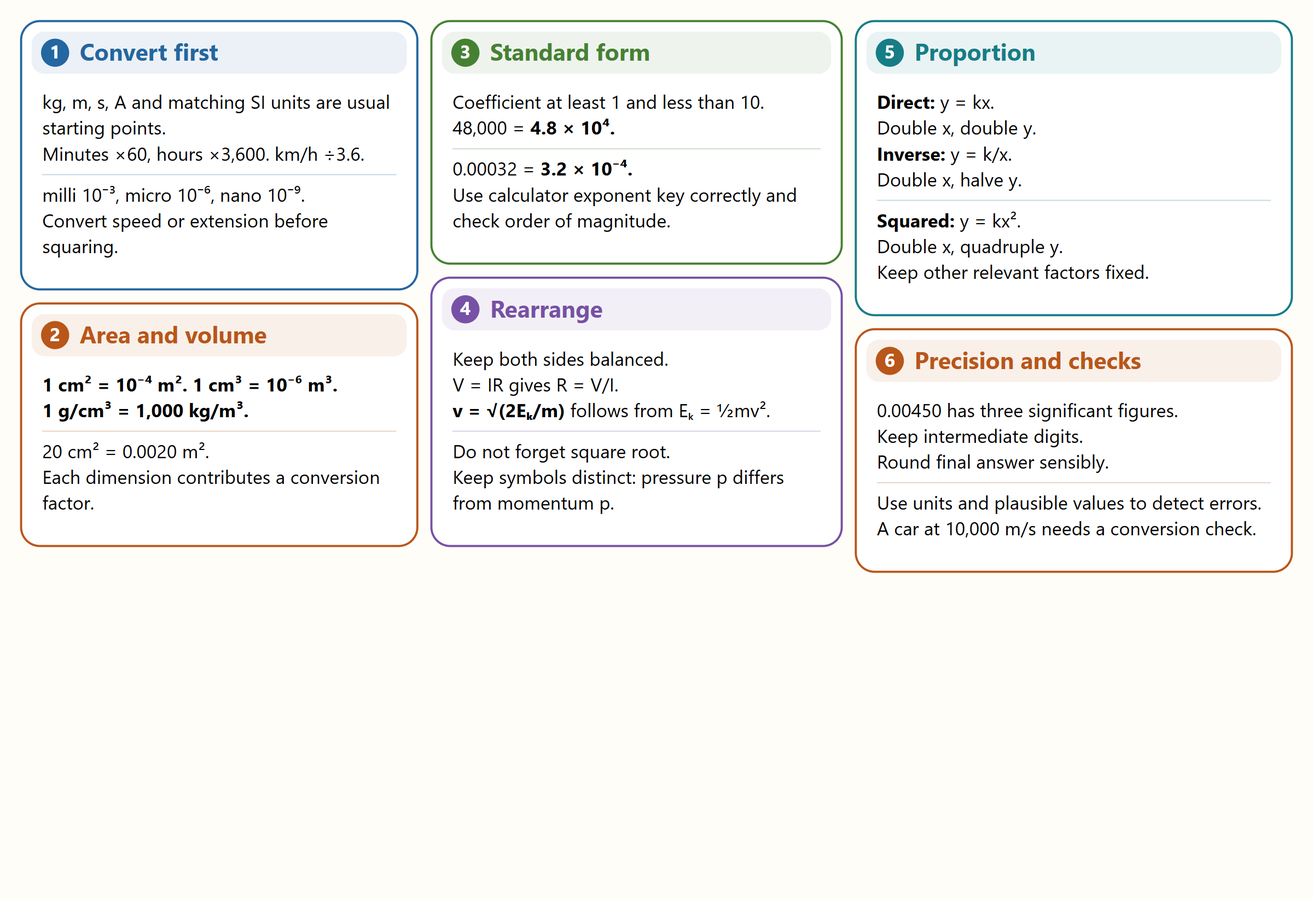
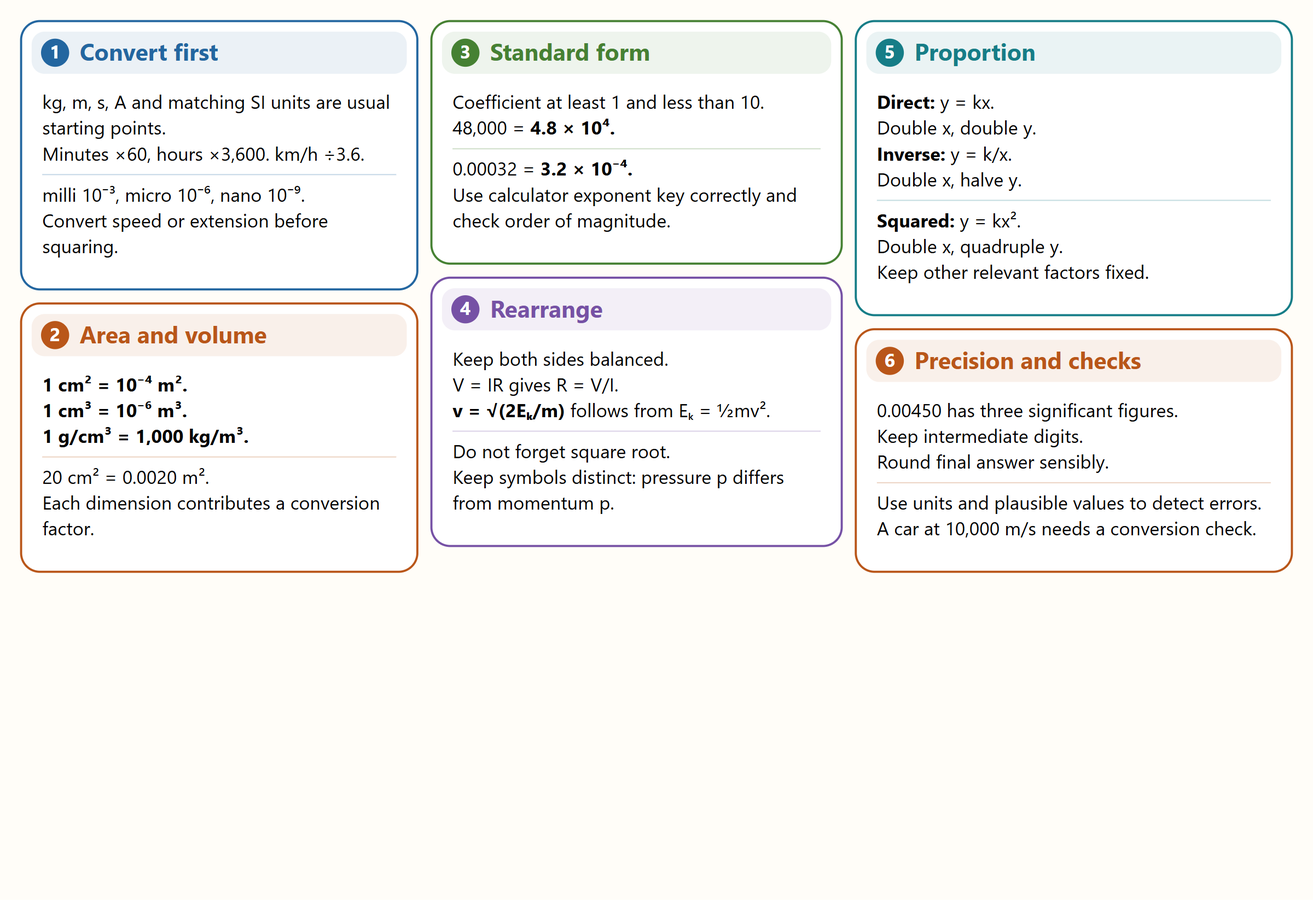
fix: review physics 10 mind-map equation layouts

Changed region(s): [[0.0, 0.4028, 0.2812, 0.6197]]

diff --git a/library/resources/physics-aqa-mathematical-requirements-and-equations-04-geometry-and-checking.html b/library/resources/physics-aqa-mathematical-requirements-and-equations-04-geometry-and-checking.html
@@ -1,6 +1,7 @@
 <!doctype html><html lang="en"><head><meta charset="utf-8"><meta name="viewport" content="width=device-width, initial-scale=1"><title>Geometry and checking mind map · Study Buddy</title><link rel="stylesheet" href="../style.css"><link rel="stylesheet" href="../mindmaps.css"><script defer src="../mindmaps.js"></script></head><body class="inner-page subject-physics"><a class="skip" href="#main">Skip to content</a><header><a class="brand" href="../../index.html"><span class="brand-mark">G</span><span class="brand-name">Study Buddy</span></a><span class="exam">Summer 2027</span></header><div class="layout"><aside><p class="eyebrow">YOUR SUBJECTS</p><nav aria-label="Subjects"><a class="" href="../../Computer%20Science%20-%20AQA/index.html">Computer Science</a><a class="" href="../../English%20Language%20-%20Eduqas/index.html">English Language</a><a class="" href="../../English%20Literature%20-%20Eduqas/index.html">English Literature</a><a class="" href="../../Maths%20-%20Edexcel/index.html">Maths</a><a class="" href="../../Geography%20-%20OCR%20A/index.html">Geography</a><a class="" href="../../French%20-%20AQA/index.html">French</a><a class="" href="../../Biology%20-%20AQA/index.html">Biology</a><a class="" href="../../Chemistry%20-%20AQA/index.html">Chemistry</a><a class="selected" href="../../Physics%20-%20AQA/index.html">Physics</a></nav><p class="side-note">Build understanding.<br>Practise precise answers.</p></aside><main id="main"><nav class="breadcrumbs" aria-label="Breadcrumb"><a href="../../index.html">Subjects</a><span aria-hidden="true"> / </span><a href="../../Physics%20-%20AQA/index.html">Physics</a><span aria-hidden="true"> / </span><a href="../../Physics%20-%20AQA/10%20-%20Mathematical%20requirements%20and%20equations/index.html">Mathematical requirements and equations</a><span aria-hidden="true"> / </span><a href="physics-aqa-mathematical-requirements-and-equations-mind-maps.html">Mind maps</a></nav><div class="reader-tools"><a href="physics-aqa-mathematical-requirements-and-equations-mind-maps.html">← Back to mind maps</a><button onclick="window.print()">Print</button></div><h1>Geometry and checking</h1><button type="button" class="mindmap-open" data-mindmap-index="4">Open full screen</button><figure class="mindmap-view"><img src="../../Physics%20-%20AQA/10%20-%20Mathematical%20requirements%20and%20equations/Mind%20Maps/04-geometry-and-checking.svg" alt="Geometry and checking revision map"></figure><details class="mindmap-text" id="text-version"><summary>Text version</summary><article class="reading"><h1>Geometry and physical checks</h1>
 <h2>Angles</h2>
-<p>Normal is 90° to a surface. Reflection: i = r from normal.</p>
+<p>Normal is 90° to a surface.</p>
+<p>Reflection: i = r from normal.</p>
 <p>Perpendicular moment distance is pivot to force’s line of action.</p>
 <p>Draw vectors to scale, preserving directions.</p>
 <p>Do not add angled force magnitudes as if along one line.</p>
@@ -21,11 +22,14 @@
 <p>Transformer equal-power relation assumes ideal efficiency.</p>
 <h2>Interpret the answer</h2>
 <p>Correct unit, sign and sensible precision.</p>
-<p>Mass is kg; weight is N. Work is J; moment is Nm.</p>
+<p>Mass is kg</p>
+<p>weight is N. Work is J</p>
+<p>moment is Nm.</p>
 <p>Temperature rise and extension are changes.</p>
 <p>Echo distance is half total travelled distance.</p>
 <h2>Sanity checks</h2>
 <p>Efficiency at most 100%. Input exceeds useful output with losses.</p>
 <p>At fixed force, larger mass gives smaller acceleration.</p>
 <p>Check squares, roots, time conversions and powers of ten.</p>
-<p>Plausibility supports a check; it does not replace working.</p></article></details><footer>GCSE preparation · 2027 · Your personal revision library</footer></main></div><script type="application/json" id="mindmap-catalog">[{"title": "Physics maths overview", "image": "../../Physics%20-%20AQA/10%20-%20Mathematical%20requirements%20and%20equations/Mind%20Maps/00-physics-maths-overview.svg", "thumbnail": "../../Physics%20-%20AQA/10%20-%20Mathematical%20requirements%20and%20equations/Mind%20Maps/00-physics-maths-overview.png", "page": "physics-aqa-mathematical-requirements-and-equations-00-physics-maths-overview.html"}, {"title": "Units and calculation", "image": "../../Physics%20-%20AQA/10%20-%20Mathematical%20requirements%20and%20equations/Mind%20Maps/01-units-and-calculation.svg", "thumbnail": "../../Physics%20-%20AQA/10%20-%20Mathematical%20requirements%20and%20equations/Mind%20Maps/01-units-and-calculation.png", "page": "physics-aqa-mathematical-requirements-and-equations-01-units-and-calculation.html"}, {"title": "Equation toolkit", "image": "../../Physics%20-%20AQA/10%20-%20Mathematical%20requirements%20and%20equations/Mind%20Maps/02-equation-toolkit.svg", "thumbnail": "../../Physics%20-%20AQA/10%20-%20Mathematical%20requirements%20and%20equations/Mind%20Maps/02-equation-toolkit.png", "page": "physics-aqa-mathematical-requirements-and-equations-02-equation-toolkit.html"}, {"title": "Graphs and data", "image": "../../Physics%20-%20AQA/10%20-%20Mathematical%20requirements%20and%20equations/Mind%20Maps/03-graphs-and-data.svg", "thumbnail": "../../Physics%20-%20AQA/10%20-%20Mathematical%20requirements%20and%20equations/Mind%20Maps/03-graphs-and-data.png", "page": "physics-aqa-mathematical-requirements-and-equations-03-graphs-and-data.html"}, {"title": "Geometry and checking", "image": "../../Physics%20-%20AQA/10%20-%20Mathematical%20requirements%20and%20equations/Mind%20Maps/04-geometry-and-checking.svg", "thumbnail": "../../Physics%20-%20AQA/10%20-%20Mathematical%20requirements%20and%20equations/Mind%20Maps/04-geometry-and-checking.png", "page": "physics-aqa-mathematical-requirements-and-equations-04-geometry-and-checking.html"}]</script><dialog class="mindmap-dialog" id="mindmap-dialog" aria-labelledby="mindmap-dialog-title"><div class="mindmap-toolbar"><h2 id="mindmap-dialog-title">Mind maps</h2><div class="mindmap-controls"><button type="button" data-map-action="gallery">← All maps</button><span class="mindmap-sequence"><button type="button" data-map-action="previous" aria-label="Previous mind map">← Previous</button><output id="mindmap-position" aria-label="Mind map position" aria-live="polite"></output><button type="button" data-map-action="next" aria-label="Next mind map">Next →</button></span><span class="mindmap-zoom-controls"><button type="button" data-map-action="out" aria-label="Zoom out">−</button><output id="mindmap-zoom" aria-label="Zoom level" aria-live="polite">100%</output><button type="button" data-map-action="in" aria-label="Zoom in">+</button><button type="button" data-map-action="fit">Fit</button><button type="button" data-map-action="actual">100%</button></span><a id="mindmap-text-link" href="#">Text version</a><button type="button" data-map-action="print">Print</button><button type="button" data-map-action="close" aria-label="Close mind map">Close ×</button></div></div><div class="mindmap-modal-gallery"><div class="mindmap-grid"></div></div><div class="mindmap-canvas" tabindex="0" aria-label="Mind map; use zoom buttons and scroll to explore"><div class="mindmap-stage"><img id="mindmap-full-image" alt="" draggable="false"></div></div><p class="mindmap-load-error" role="alert" hidden>Unable to load this map. <a href="#">Open the map page</a></p></dialog></body></html>
+<p>Plausibility supports a check</p>
+<p>it does not replace working.</p></article></details><footer>GCSE preparation · 2027 · Your personal revision library</footer></main></div><script type="application/json" id="mindmap-catalog">[{"title": "Physics maths overview", "image": "../../Physics%20-%20AQA/10%20-%20Mathematical%20requirements%20and%20equations/Mind%20Maps/00-physics-maths-overview.svg", "thumbnail": "../../Physics%20-%20AQA/10%20-%20Mathematical%20requirements%20and%20equations/Mind%20Maps/00-physics-maths-overview.png", "page": "physics-aqa-mathematical-requirements-and-equations-00-physics-maths-overview.html"}, {"title": "Units and calculation", "image": "../../Physics%20-%20AQA/10%20-%20Mathematical%20requirements%20and%20equations/Mind%20Maps/01-units-and-calculation.svg", "thumbnail": "../../Physics%20-%20AQA/10%20-%20Mathematical%20requirements%20and%20equations/Mind%20Maps/01-units-and-calculation.png", "page": "physics-aqa-mathematical-requirements-and-equations-01-units-and-calculation.html"}, {"title": "Equation toolkit", "image": "../../Physics%20-%20AQA/10%20-%20Mathematical%20requirements%20and%20equations/Mind%20Maps/02-equation-toolkit.svg", "thumbnail": "../../Physics%20-%20AQA/10%20-%20Mathematical%20requirements%20and%20equations/Mind%20Maps/02-equation-toolkit.png", "page": "physics-aqa-mathematical-requirements-and-equations-02-equation-toolkit.html"}, {"title": "Graphs and data", "image": "../../Physics%20-%20AQA/10%20-%20Mathematical%20requirements%20and%20equations/Mind%20Maps/03-graphs-and-data.svg", "thumbnail": "../../Physics%20-%20AQA/10%20-%20Mathematical%20requirements%20and%20equations/Mind%20Maps/03-graphs-and-data.png", "page": "physics-aqa-mathematical-requirements-and-equations-03-graphs-and-data.html"}, {"title": "Geometry and checking", "image": "../../Physics%20-%20AQA/10%20-%20Mathematical%20requirements%20and%20equations/Mind%20Maps/04-geometry-and-checking.svg", "thumbnail": "../../Physics%20-%20AQA/10%20-%20Mathematical%20requirements%20and%20equations/Mind%20Maps/04-geometry-and-checking.png", "page": "physics-aqa-mathematical-requirements-and-equations-04-geometry-and-checking.html"}]</script><dialog class="mindmap-dialog" id="mindmap-dialog" aria-labelledby="mindmap-dialog-title"><div class="mindmap-toolbar"><h2 id="mindmap-dialog-title">Mind maps</h2><div class="mindmap-controls"><button type="button" data-map-action="gallery">← All maps</button><span class="mindmap-sequence"><button type="button" data-map-action="previous" aria-label="Previous mind map">← Previous</button><output id="mindmap-position" aria-label="Mind map position" aria-live="polite"></output><button type="button" data-map-action="next" aria-label="Next mind map">Next →</button></span><span class="mindmap-zoom-controls"><button type="button" data-map-action="out" aria-label="Zoom out">−</button><output id="mindmap-zoom" aria-label="Zoom level" aria-live="polite">100%</output><button type="button" data-map-action="in" aria-label="Zoom in">+</button><button type="button" data-map-action="fit">Fit</button><button type="button" data-map-action="actual">100%</button></span><a id="mindmap-text-link" href="#">Text version</a><button type="button" data-map-action="print">Print</button><button type="button" data-map-action="close" aria-label="Close mind map">Close ×</button></div></div><div class="mindmap-modal-gallery"><div class="mindmap-grid"></div></div><div class="mindmap-canvas" tabindex="0" aria-label="Mind map; use zoom buttons and scroll to explore"><div class="mindmap-stage"><img id="mindmap-full-image" alt="" draggable="false"></div></div><p class="mindmap-load-error" role="alert" hidden>Unable to load this map. <a href="#">Open the map page</a></p></dialog></body></html>

diff --git a/library/resources/physics-aqa-mathematical-requirements-and-equations-02-equation-toolkit.html b/library/resources/physics-aqa-mathematical-requirements-and-equations-02-equation-toolkit.html
@@ -1,31 +1,52 @@
 <!doctype html><html lang="en"><head><meta charset="utf-8"><meta name="viewport" content="width=device-width, initial-scale=1"><title>Equation toolkit mind map · Study Buddy</title><link rel="stylesheet" href="../style.css"><link rel="stylesheet" href="../mindmaps.css"><script defer src="../mindmaps.js"></script></head><body class="inner-page subject-physics"><a class="skip" href="#main">Skip to content</a><header><a class="brand" href="../../index.html"><span class="brand-mark">G</span><span class="brand-name">Study Buddy</span></a><span class="exam">Summer 2027</span></header><div class="layout"><aside><p class="eyebrow">YOUR SUBJECTS</p><nav aria-label="Subjects"><a class="" href="../../Computer%20Science%20-%20AQA/index.html">Computer Science</a><a class="" href="../../English%20Language%20-%20Eduqas/index.html">English Language</a><a class="" href="../../English%20Literature%20-%20Eduqas/index.html">English Literature</a><a class="" href="../../Maths%20-%20Edexcel/index.html">Maths</a><a class="" href="../../Geography%20-%20OCR%20A/index.html">Geography</a><a class="" href="../../French%20-%20AQA/index.html">French</a><a class="" href="../../Biology%20-%20AQA/index.html">Biology</a><a class="" href="../../Chemistry%20-%20AQA/index.html">Chemistry</a><a class="selected" href="../../Physics%20-%20AQA/index.html">Physics</a></nav><p class="side-note">Build understanding.<br>Practise precise answers.</p></aside><main id="main"><nav class="breadcrumbs" aria-label="Breadcrumb"><a href="../../index.html">Subjects</a><span aria-hidden="true"> / </span><a href="../../Physics%20-%20AQA/index.html">Physics</a><span aria-hidden="true"> / </span><a href="../../Physics%20-%20AQA/10%20-%20Mathematical%20requirements%20and%20equations/index.html">Mathematical requirements and equations</a><span aria-hidden="true"> / </span><a href="physics-aqa-mathematical-requirements-and-equations-mind-maps.html">Mind maps</a></nav><div class="reader-tools"><a href="physics-aqa-mathematical-requirements-and-equations-mind-maps.html">← Back to mind maps</a><button onclick="window.print()">Print</button></div><h1>Equation toolkit</h1><button type="button" class="mindmap-open" data-mindmap-index="2">Open full screen</button><figure class="mindmap-view"><img src="../../Physics%20-%20AQA/10%20-%20Mathematical%20requirements%20and%20equations/Mind%20Maps/02-equation-toolkit.svg" alt="Equation toolkit revision map"></figure><details class="mindmap-text" id="text-version"><summary>Text version</summary><article class="reading"><h1>Equation toolkit</h1>
 <h2>Stores and thermal energy</h2>
-<p><strong>Eₖ = ½mv². Eₚ = mgh. Eₑ = ½ke².</strong></p>
+<p><strong>Eₖ = ½mv².</strong></p>
+<p><strong>Eₚ = mgh.</strong></p>
+<p><strong>Eₑ = ½ke².</strong></p>
 <p><strong>ΔE = mcΔθ:</strong> temperature rise.</p>
 <p><strong>E = mL:</strong> state change.</p>
 <p>Add separate stages if both happen.</p>
 <h2>Power and electricity</h2>
-<p><strong>P = E/t = W/t. E = Pt.</strong></p>
+<p><strong>P = E/t</strong></p>
+<p><strong>P = W/t</strong></p>
+<p><strong>W: work done (J).</strong></p>
+<p><strong>E = Pt.</strong></p>
 <p>Efficiency: useful output/total input, energy or power.</p>
-<p><strong>Q = It. V = IR. P = VI = I²R. E = QV.</strong></p>
+<p><strong>Q = It.</strong></p>
+<p><strong>V = IR.</strong></p>
+<p><strong>P = VI</strong></p>
+<p><strong>P = I²R.</strong></p>
+<p><strong>E = QV.</strong></p>
 <p>Use seconds, A, V, Ω, W and J.</p>
 <h2>Matter and pressure</h2>
-<p><strong>ρ = m/V. p = F/A. p = hρg.</strong></p>
+<p><strong>ρ = m/V.</strong></p>
+<p><strong>p = F/A.</strong></p>
+<p><strong>p = hρg.</strong></p>
 <p>Convert area and volume carefully.</p>
 <p><strong>p₁V₁ = p₂V₂:</strong> fixed gas mass and temperature.</p>
 <p>Check whether liquid-column or total pressure is requested.</p>
 <h2>Forces and motion</h2>
-<p><strong>W = mg. Work = Fs. F = ke. M = Fd.</strong></p>
-<p><strong>s = vt. a = (v − u)/t. v² − u² = 2as. F = ma.</strong></p>
+<p><strong>W = mg.</strong></p>
+<p><strong>Work = Fs.</strong></p>
+<p><strong>F = ke.</strong></p>
+<p><strong>M = Fd.</strong></p>
+<p><strong>s = vt.</strong></p>
+<p><strong>a = (v − u)/t. v² − u² = 2as.</strong></p>
+<p><strong>F = ma.</strong></p>
 <p>Use resultant force, extension and perpendicular distance.</p>
-<p><strong>p = mv. F = Δp/Δt.</strong> Include direction.</p>
+<p><strong>p = mv.</strong></p>
+<p><strong>F = Δp/Δt.</strong></p>
+<p>Include direction.</p>
 <h2>Waves and images</h2>
-<p><strong>T = 1/f. v = fλ.</strong></p>
+<p><strong>T = 1/f.</strong></p>
+<p><strong>v = fλ.</strong></p>
 <p>Echo distance = vt/2, because time covers both journeys.</p>
-<p>Magnification = image height/object height. No unit.</p>
+<p>Magnification = image height/object height.</p>
+<p>No unit.</p>
 <p>Frequency stays constant across a medium boundary.</p>
 <h2>Magnetism and links</h2>
 <p><strong>F = BIl</strong> for a perpendicular conductor.</p>
-<p><strong>Vₚ/Vₛ = nₚ/nₛ.</strong> Ideal: VₚIₚ = VₛIₛ.</p>
+<p><strong>Vₚ/Vₛ = nₚ/nₛ.</strong></p>
+<p>Ideal: VₚIₚ = VₛIₛ.</p>
 <p>Energy to useful power to input power uses linked equations.</p>
 <p>Real losses need efficiency, not ideal balance.</p></article></details><footer>GCSE preparation · 2027 · Your personal revision library</footer></main></div><script type="application/json" id="mindmap-catalog">[{"title": "Physics maths overview", "image": "../../Physics%20-%20AQA/10%20-%20Mathematical%20requirements%20and%20equations/Mind%20Maps/00-physics-maths-overview.svg", "thumbnail": "../../Physics%20-%20AQA/10%20-%20Mathematical%20requirements%20and%20equations/Mind%20Maps/00-physics-maths-overview.png", "page": "physics-aqa-mathematical-requirements-and-equations-00-physics-maths-overview.html"}, {"title": "Units and calculation", "image": "../../Physics%20-%20AQA/10%20-%20Mathematical%20requirements%20and%20equations/Mind%20Maps/01-units-and-calculation.svg", "thumbnail": "../../Physics%20-%20AQA/10%20-%20Mathematical%20requirements%20and%20equations/Mind%20Maps/01-units-and-calculation.png", "page": "physics-aqa-mathematical-requirements-and-equations-01-units-and-calculation.html"}, {"title": "Equation toolkit", "image": "../../Physics%20-%20AQA/10%20-%20Mathematical%20requirements%20and%20equations/Mind%20Maps/02-equation-toolkit.svg", "thumbnail": "../../Physics%20-%20AQA/10%20-%20Mathematical%20requirements%20and%20equations/Mind%20Maps/02-equation-toolkit.png", "page": "physics-aqa-mathematical-requirements-and-equations-02-equation-toolkit.html"}, {"title": "Graphs and data", "image": "../../Physics%20-%20AQA/10%20-%20Mathematical%20requirements%20and%20equations/Mind%20Maps/03-graphs-and-data.svg", "thumbnail": "../../Physics%20-%20AQA/10%20-%20Mathematical%20requirements%20and%20equations/Mind%20Maps/03-graphs-and-data.png", "page": "physics-aqa-mathematical-requirements-and-equations-03-graphs-and-data.html"}, {"title": "Geometry and checking", "image": "../../Physics%20-%20AQA/10%20-%20Mathematical%20requirements%20and%20equations/Mind%20Maps/04-geometry-and-checking.svg", "thumbnail": "../../Physics%20-%20AQA/10%20-%20Mathematical%20requirements%20and%20equations/Mind%20Maps/04-geometry-and-checking.png", "page": "physics-aqa-mathematical-requirements-and-equations-04-geometry-and-checking.html"}]</script><dialog class="mindmap-dialog" id="mindmap-dialog" aria-labelledby="mindmap-dialog-title"><div class="mindmap-toolbar"><h2 id="mindmap-dialog-title">Mind maps</h2><div class="mindmap-controls"><button type="button" data-map-action="gallery">← All maps</button><span class="mindmap-sequence"><button type="button" data-map-action="previous" aria-label="Previous mind map">← Previous</button><output id="mindmap-position" aria-label="Mind map position" aria-live="polite"></output><button type="button" data-map-action="next" aria-label="Next mind map">Next →</button></span><span class="mindmap-zoom-controls"><button type="button" data-map-action="out" aria-label="Zoom out">−</button><output id="mindmap-zoom" aria-label="Zoom level" aria-live="polite">100%</output><button type="button" data-map-action="in" aria-label="Zoom in">+</button><button type="button" data-map-action="fit">Fit</button><button type="button" data-map-action="actual">100%</button></span><a id="mindmap-text-link" href="#">Text version</a><button type="button" data-map-action="print">Print</button><button type="button" data-map-action="close" aria-label="Close mind map">Close ×</button></div></div><div class="mindmap-modal-gallery"><div class="mindmap-grid"></div></div><div class="mindmap-canvas" tabindex="0" aria-label="Mind map; use zoom buttons and scroll to explore"><div class="mindmap-stage"><img id="mindmap-full-image" alt="" draggable="false"></div></div><p class="mindmap-load-error" role="alert" hidden>Unable to load this map. <a href="#">Open the map page</a></p></dialog></body></html>

diff --git a/library/resources/physics-aqa-mathematical-requirements-and-equations-03-graphs-and-data.html b/library/resources/physics-aqa-mathematical-requirements-and-equations-03-graphs-and-data.html
@@ -1,7 +1,8 @@
 <!doctype html><html lang="en"><head><meta charset="utf-8"><meta name="viewport" content="width=device-width, initial-scale=1"><title>Graphs and data mind map · Study Buddy</title><link rel="stylesheet" href="../style.css"><link rel="stylesheet" href="../mindmaps.css"><script defer src="../mindmaps.js"></script></head><body class="inner-page subject-physics"><a class="skip" href="#main">Skip to content</a><header><a class="brand" href="../../index.html"><span class="brand-mark">G</span><span class="brand-name">Study Buddy</span></a><span class="exam">Summer 2027</span></header><div class="layout"><aside><p class="eyebrow">YOUR SUBJECTS</p><nav aria-label="Subjects"><a class="" href="../../Computer%20Science%20-%20AQA/index.html">Computer Science</a><a class="" href="../../English%20Language%20-%20Eduqas/index.html">English Language</a><a class="" href="../../English%20Literature%20-%20Eduqas/index.html">English Literature</a><a class="" href="../../Maths%20-%20Edexcel/index.html">Maths</a><a class="" href="../../Geography%20-%20OCR%20A/index.html">Geography</a><a class="" href="../../French%20-%20AQA/index.html">French</a><a class="" href="../../Biology%20-%20AQA/index.html">Biology</a><a class="" href="../../Chemistry%20-%20AQA/index.html">Chemistry</a><a class="selected" href="../../Physics%20-%20AQA/index.html">Physics</a></nav><p class="side-note">Build understanding.<br>Practise precise answers.</p></aside><main id="main"><nav class="breadcrumbs" aria-label="Breadcrumb"><a href="../../index.html">Subjects</a><span aria-hidden="true"> / </span><a href="../../Physics%20-%20AQA/index.html">Physics</a><span aria-hidden="true"> / </span><a href="../../Physics%20-%20AQA/10%20-%20Mathematical%20requirements%20and%20equations/index.html">Mathematical requirements and equations</a><span aria-hidden="true"> / </span><a href="physics-aqa-mathematical-requirements-and-equations-mind-maps.html">Mind maps</a></nav><div class="reader-tools"><a href="physics-aqa-mathematical-requirements-and-equations-mind-maps.html">← Back to mind maps</a><button onclick="window.print()">Print</button></div><h1>Graphs and data</h1><button type="button" class="mindmap-open" data-mindmap-index="3">Open full screen</button><figure class="mindmap-view"><img src="../../Physics%20-%20AQA/10%20-%20Mathematical%20requirements%20and%20equations/Mind%20Maps/03-graphs-and-data.svg" alt="Graphs and data revision map"></figure><details class="mindmap-text" id="text-version"><summary>Text version</summary><article class="reading"><h1>Graphs and data</h1>
 <h2>Linear relationships</h2>
 <p><strong>y = mx + c:</strong> gradient m, intercept c.</p>
-<p><strong>Gradient = Δy/Δx.</strong> Use a large triangle on best-fit line.</p>
+<p><strong>Gradient = Δy/Δx.</strong></p>
+<p>Use a large triangle on best-fit line.</p>
 <p>F against extension gives k. I against V gives 1/R.</p>
 <p>Axis order changes the gradient’s meaning.</p>
 <h2>Curved graph</h2>
@@ -16,12 +17,14 @@
 <p>F–extension area gives work to spring.</p>
 <p>Distance–time area does not give distance.</p>
 <h2>Statistical summaries</h2>
-<p>Mean = sum/count. Frequency tables need weighted sum.</p>
+<p>Mean = sum/count.</p>
+<p>Frequency tables need weighted sum.</p>
 <p>Median: middle after sorting. Mode: most frequent.</p>
 <p>Range: maximum − minimum.</p>
 <p>Percentage change = change/original ×100.</p>
 <h2>Chart interpretation</h2>
 <p>Bar charts compare categories. Scatter graphs show correlation.</p>
-<p>Histogram frequency is area; density = frequency/interval width.</p>
+<p>Histogram frequency is area</p>
+<p>density = frequency/interval width.</p>
 <p>Correlation does not establish cause.</p>
 <p>Use units, uncertainties and actual data in conclusions.</p></article></details><footer>GCSE preparation · 2027 · Your personal revision library</footer></main></div><script type="application/json" id="mindmap-catalog">[{"title": "Physics maths overview", "image": "../../Physics%20-%20AQA/10%20-%20Mathematical%20requirements%20and%20equations/Mind%20Maps/00-physics-maths-overview.svg", "thumbnail": "../../Physics%20-%20AQA/10%20-%20Mathematical%20requirements%20and%20equations/Mind%20Maps/00-physics-maths-overview.png", "page": "physics-aqa-mathematical-requirements-and-equations-00-physics-maths-overview.html"}, {"title": "Units and calculation", "image": "../../Physics%20-%20AQA/10%20-%20Mathematical%20requirements%20and%20equations/Mind%20Maps/01-units-and-calculation.svg", "thumbnail": "../../Physics%20-%20AQA/10%20-%20Mathematical%20requirements%20and%20equations/Mind%20Maps/01-units-and-calculation.png", "page": "physics-aqa-mathematical-requirements-and-equations-01-units-and-calculation.html"}, {"title": "Equation toolkit", "image": "../../Physics%20-%20AQA/10%20-%20Mathematical%20requirements%20and%20equations/Mind%20Maps/02-equation-toolkit.svg", "thumbnail": "../../Physics%20-%20AQA/10%20-%20Mathematical%20requirements%20and%20equations/Mind%20Maps/02-equation-toolkit.png", "page": "physics-aqa-mathematical-requirements-and-equations-02-equation-toolkit.html"}, {"title": "Graphs and data", "image": "../../Physics%20-%20AQA/10%20-%20Mathematical%20requirements%20and%20equations/Mind%20Maps/03-graphs-and-data.svg", "thumbnail": "../../Physics%20-%20AQA/10%20-%20Mathematical%20requirements%20and%20equations/Mind%20Maps/03-graphs-and-data.png", "page": "physics-aqa-mathematical-requirements-and-equations-03-graphs-and-data.html"}, {"title": "Geometry and checking", "image": "../../Physics%20-%20AQA/10%20-%20Mathematical%20requirements%20and%20equations/Mind%20Maps/04-geometry-and-checking.svg", "thumbnail": "../../Physics%20-%20AQA/10%20-%20Mathematical%20requirements%20and%20equations/Mind%20Maps/04-geometry-and-checking.png", "page": "physics-aqa-mathematical-requirements-and-equations-04-geometry-and-checking.html"}]</script><dialog class="mindmap-dialog" id="mindmap-dialog" aria-labelledby="mindmap-dialog-title"><div class="mindmap-toolbar"><h2 id="mindmap-dialog-title">Mind maps</h2><div class="mindmap-controls"><button type="button" data-map-action="gallery">← All maps</button><span class="mindmap-sequence"><button type="button" data-map-action="previous" aria-label="Previous mind map">← Previous</button><output id="mindmap-position" aria-label="Mind map position" aria-live="polite"></output><button type="button" data-map-action="next" aria-label="Next mind map">Next →</button></span><span class="mindmap-zoom-controls"><button type="button" data-map-action="out" aria-label="Zoom out">−</button><output id="mindmap-zoom" aria-label="Zoom level" aria-live="polite">100%</output><button type="button" data-map-action="in" aria-label="Zoom in">+</button><button type="button" data-map-action="fit">Fit</button><button type="button" data-map-action="actual">100%</button></span><a id="mindmap-text-link" href="#">Text version</a><button type="button" data-map-action="print">Print</button><button type="button" data-map-action="close" aria-label="Close mind map">Close ×</button></div></div><div class="mindmap-modal-gallery"><div class="mindmap-grid"></div></div><div class="mindmap-canvas" tabindex="0" aria-label="Mind map; use zoom buttons and scroll to explore"><div class="mindmap-stage"><img id="mindmap-full-image" alt="" draggable="false"></div></div><p class="mindmap-load-error" role="alert" hidden>Unable to load this map. <a href="#">Open the map page</a></p></dialog></body></html>

diff --git a/library/resources/physics-aqa-mathematical-requirements-and-equations-01-units-and-calculation.html b/library/resources/physics-aqa-mathematical-requirements-and-equations-01-units-and-calculation.html
@@ -5,7 +5,8 @@
 <p>milli 10⁻³, micro 10⁻⁶, nano 10⁻⁹.</p>
 <p>Convert speed or extension before squaring.</p>
 <h2>Area and volume</h2>
-<p><strong>1 cm² = 10⁻⁴ m². 1 cm³ = 10⁻⁶ m³.</strong></p>
+<p><strong>1 cm² = 10⁻⁴ m².</strong></p>
+<p><strong>1 cm³ = 10⁻⁶ m³.</strong></p>
 <p><strong>1 g/cm³ = 1,000 kg/m³.</strong></p>
 <p>20 cm² = 0.0020 m².</p>
 <p>Each dimension contributes a conversion factor.</p>
@@ -15,14 +16,18 @@
 <p>0.00032 = <strong>3.2 × 10⁻⁴</strong>.</p>
 <p>Use calculator exponent key correctly and check order of magnitude.</p>
 <h2>Rearrange</h2>
-<p>Keep both sides balanced. V = IR gives R = V/I.</p>
+<p>Keep both sides balanced.</p>
+<p>V = IR gives R = V/I.</p>
 <p><strong>v = √(2Eₖ/m)</strong> follows from Eₖ = ½mv².</p>
 <p>Do not forget square root.</p>
 <p>Keep symbols distinct: pressure p differs from momentum p.</p>
 <h2>Proportion</h2>
-<p><strong>Direct:</strong> y = kx. Double x, double y.</p>
-<p><strong>Inverse:</strong> y = k/x. Double x, halve y.</p>
-<p><strong>Squared:</strong> y = kx². Double x, quadruple y.</p>
+<p><strong>Direct:</strong> y = kx.</p>
+<p>Double x, double y.</p>
+<p><strong>Inverse:</strong> y = k/x.</p>
+<p>Double x, halve y.</p>
+<p><strong>Squared:</strong> y = kx².</p>
+<p>Double x, quadruple y.</p>
 <p>Keep other relevant factors fixed.</p>
 <h2>Precision and checks</h2>
 <p>0.00450 has three significant figures.</p>

diff --git a/Physics - AQA/10 - Mathematical requirements and equations/Mind Maps/02-equation-toolkit.md b/Physics - AQA/10 - Mathematical requirements and equations/Mind Maps/02-equation-toolkit.md
@@ -2,7 +2,11 @@
 
 ## Stores and thermal energy
 
-**Eₖ = ½mv². Eₚ = mgh. Eₑ = ½ke².**
+**Eₖ = ½mv².**
+
+**Eₚ = mgh.**
+
+**Eₑ = ½ke².**
 
 **ΔE = mcΔθ:** temperature rise.
 
@@ -12,17 +16,35 @@ Add separate stages if both happen.
 
 ## Power and electricity
 
-**P = E/t = W/t. E = Pt.**
+**P = E/t**
+
+**P = W/t**
+
+**W: work done (J).**
+
+**E = Pt.**
 
 Efficiency: useful output/total input, energy or power.
 
-**Q = It. V = IR. P = VI = I²R. E = QV.**
+**Q = It.**
+
+**V = IR.**
+
+**P = VI**
+
+**P = I²R.**
+
+**E = QV.**
 
 Use seconds, A, V, Ω, W and J.
 
 ## Matter and pressure
 
-**ρ = m/V. p = F/A. p = hρg.**
+**ρ = m/V.**
+
+**p = F/A.**
+
+**p = hρg.**
 
 Convert area and volume carefully.
 
@@ -32,21 +54,39 @@ Check whether liquid-column or total pressure is requested.
 
 ## Forces and motion
 
-**W = mg. Work = Fs. F = ke. M = Fd.**
+**W = mg.**
 
-**s = vt. a = (v − u)/t. v² − u² = 2as. F = ma.**
+**Work = Fs.**
+
+**F = ke.**
+
+**M = Fd.**
+
+**s = vt.**
+
+**a = (v − u)/t. v² − u² = 2as.**
+
+**F = ma.**
 
 Use resultant force, extension and perpendicular distance.
 
-**p = mv. F = Δp/Δt.** Include direction.
+**p = mv.**
+
+**F = Δp/Δt.**
+
+Include direction.
 
 ## Waves and images
 
-**T = 1/f. v = fλ.**
+**T = 1/f.**
+
+**v = fλ.**
 
 Echo distance = vt/2, because time covers both journeys.
 
-Magnification = image height/object height. No unit.
+Magnification = image height/object height.
+
+No unit.
 
 Frequency stays constant across a medium boundary.
 
@@ -54,7 +94,9 @@ Frequency stays constant across a medium boundary.
 
 **F = BIl** for a perpendicular conductor.
 
-**Vₚ/Vₛ = nₚ/nₛ.** Ideal: VₚIₚ = VₛIₛ.
+**Vₚ/Vₛ = nₚ/nₛ.**
+
+Ideal: VₚIₚ = VₛIₛ.
 
 Energy to useful power to input power uses linked equations.
 

diff --git a/Physics - AQA/10 - Mathematical requirements and equations/Mind Maps/01-units-and-calculation.md b/Physics - AQA/10 - Mathematical requirements and equations/Mind Maps/01-units-and-calculation.md
@@ -12,7 +12,9 @@ Convert speed or extension before squaring.
 
 ## Area and volume
 
-**1 cm² = 10⁻⁴ m². 1 cm³ = 10⁻⁶ m³.**
+**1 cm² = 10⁻⁴ m².**
+
+**1 cm³ = 10⁻⁶ m³.**
 
 **1 g/cm³ = 1,000 kg/m³.**
 
@@ -32,7 +34,9 @@ Use calculator exponent key correctly and check order of magnitude.
 
 ## Rearrange
 
-Keep both sides balanced. V = IR gives R = V/I.
+Keep both sides balanced.
+
+V = IR gives R = V/I.
 
 **v = √(2Eₖ/m)** follows from Eₖ = ½mv².
 
@@ -42,11 +46,17 @@ Keep symbols distinct: pressure p differs from momentum p.
 
 ## Proportion
 
-**Direct:** y = kx. Double x, double y.
+**Direct:** y = kx.
 
-**Inverse:** y = k/x. Double x, halve y.
+Double x, double y.
 
-**Squared:** y = kx². Double x, quadruple y.
+**Inverse:** y = k/x.
+
+Double x, halve y.
+
+**Squared:** y = kx².
+
+Double x, quadruple y.
 
 Keep other relevant factors fixed.
 

diff --git a/Physics - AQA/10 - Mathematical requirements and equations/Mind Maps/03-graphs-and-data.md b/Physics - AQA/10 - Mathematical requirements and equations/Mind Maps/03-graphs-and-data.md
@@ -4,7 +4,9 @@
 
 **y = mx + c:** gradient m, intercept c.
 
-**Gradient = Δy/Δx.** Use a large triangle on best-fit line.
+**Gradient = Δy/Δx.**
+
+Use a large triangle on best-fit line.
 
 F against extension gives k. I against V gives 1/R.
 
@@ -34,7 +36,9 @@ Distance–time area does not give distance.
 
 ## Statistical summaries
 
-Mean = sum/count. Frequency tables need weighted sum.
+Mean = sum/count.
+
+Frequency tables need weighted sum.
 
 Median: middle after sorting. Mode: most frequent.
 
@@ -46,7 +50,9 @@ Percentage change = change/original ×100.
 
 Bar charts compare categories. Scatter graphs show correlation.
 
-Histogram frequency is area; density = frequency/interval width.
+Histogram frequency is area
+
+density = frequency/interval width.
 
 Correlation does not establish cause.
 

diff --git a/Physics - AQA/10 - Mathematical requirements and equations/Mind Maps/04-geometry-and-checking.md b/Physics - AQA/10 - Mathematical requirements and equations/Mind Maps/04-geometry-and-checking.md
@@ -2,7 +2,9 @@
 
 ## Angles
 
-Normal is 90° to a surface. Reflection: i = r from normal.
+Normal is 90° to a surface.
+
+Reflection: i = r from normal.
 
 Perpendicular moment distance is pivot to force’s line of action.
 
@@ -44,7 +46,11 @@ Transformer equal-power relation assumes ideal efficiency.
 
 Correct unit, sign and sensible precision.
 
-Mass is kg; weight is N. Work is J; moment is Nm.
+Mass is kg
+
+weight is N. Work is J
+
+moment is Nm.
 
 Temperature rise and extension are changes.
 
@@ -58,4 +64,6 @@ At fixed force, larger mass gives smaller acceleration.
 
 Check squares, roots, time conversions and powers of ten.
 
-Plausibility supports a check; it does not replace working.
+Plausibility supports a check
+
+it does not replace working.
